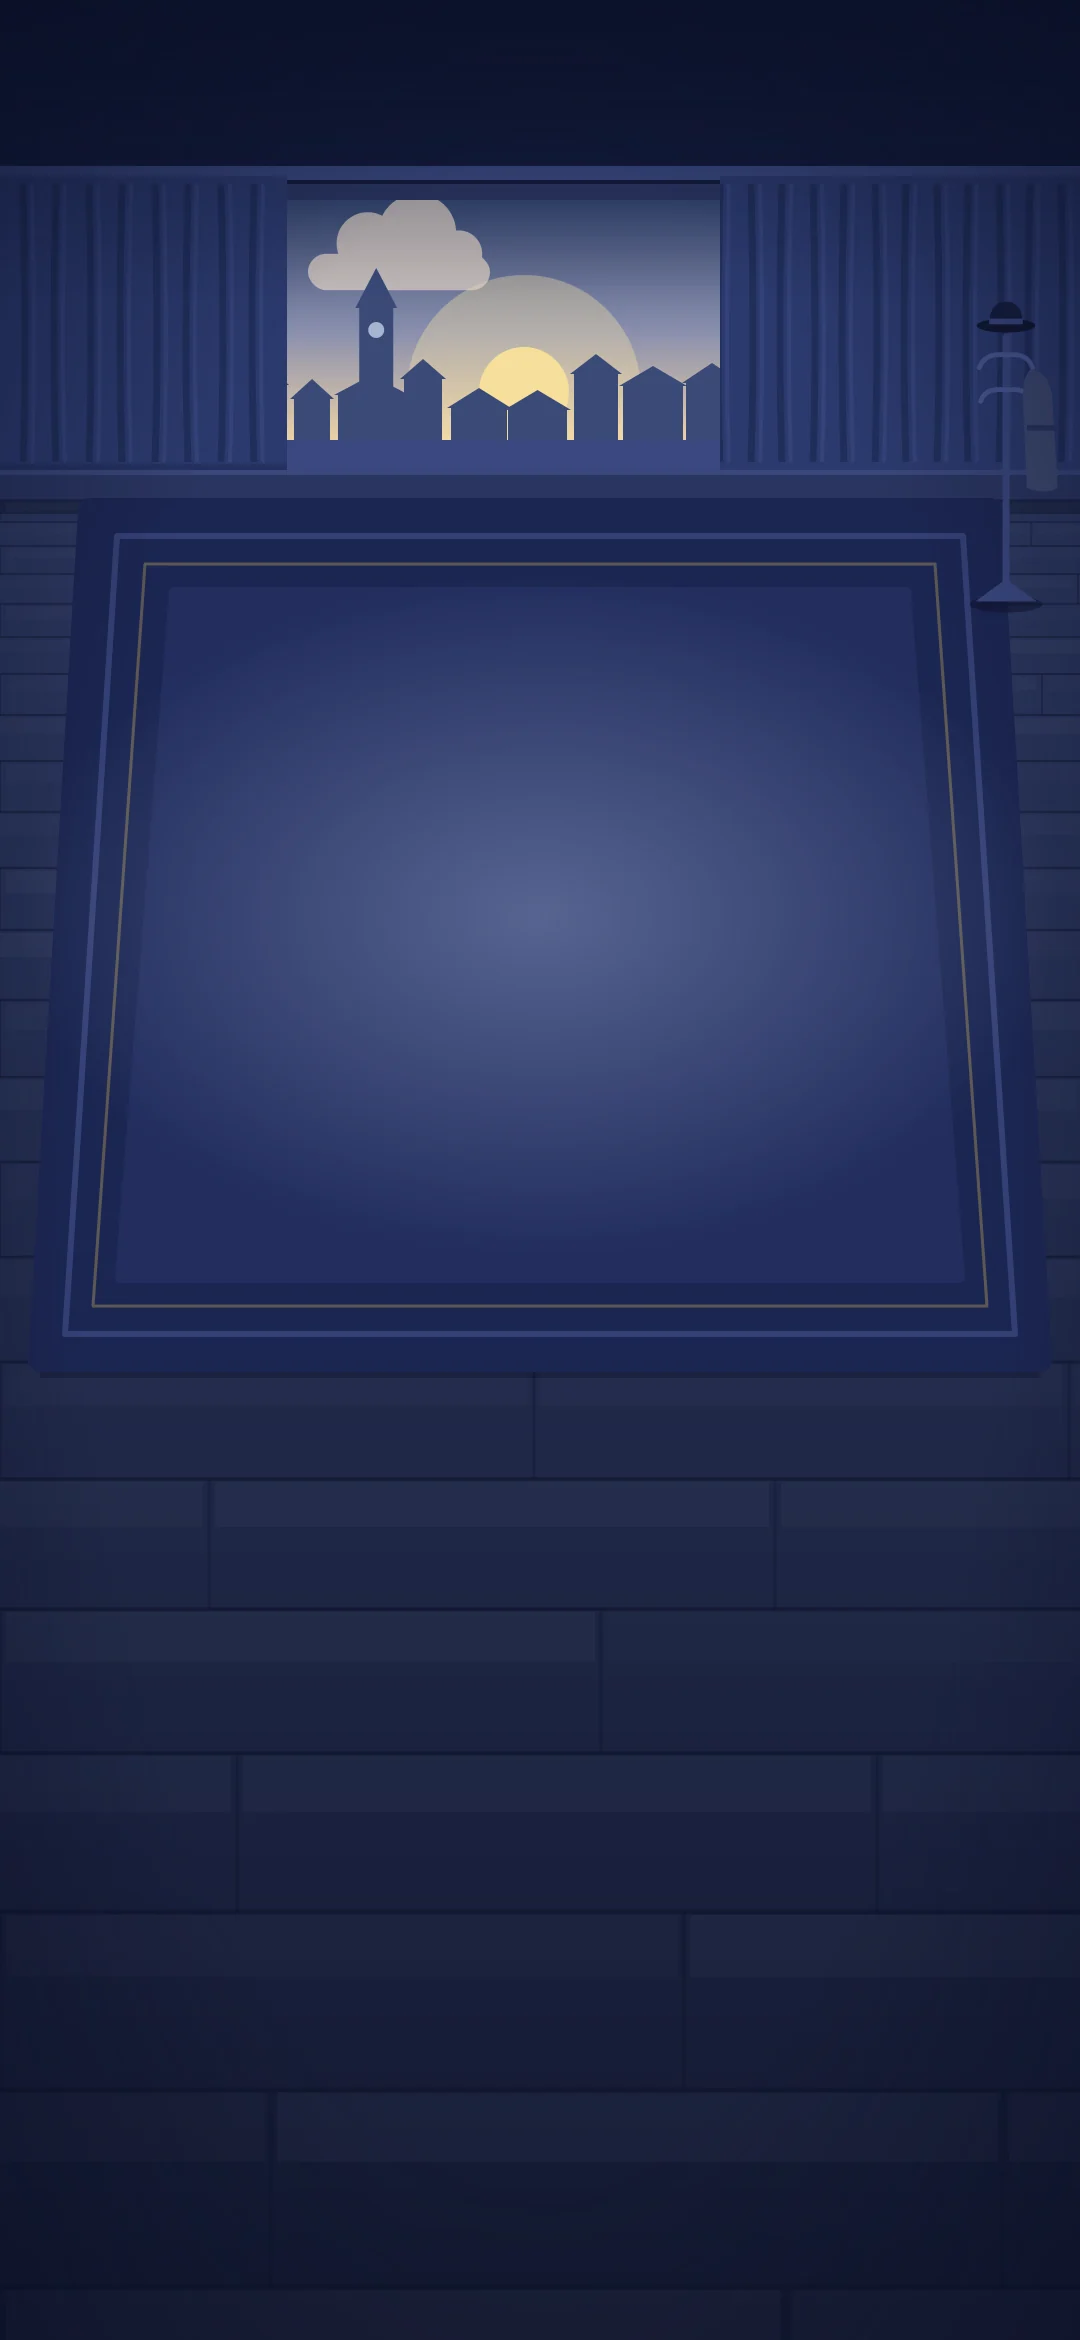
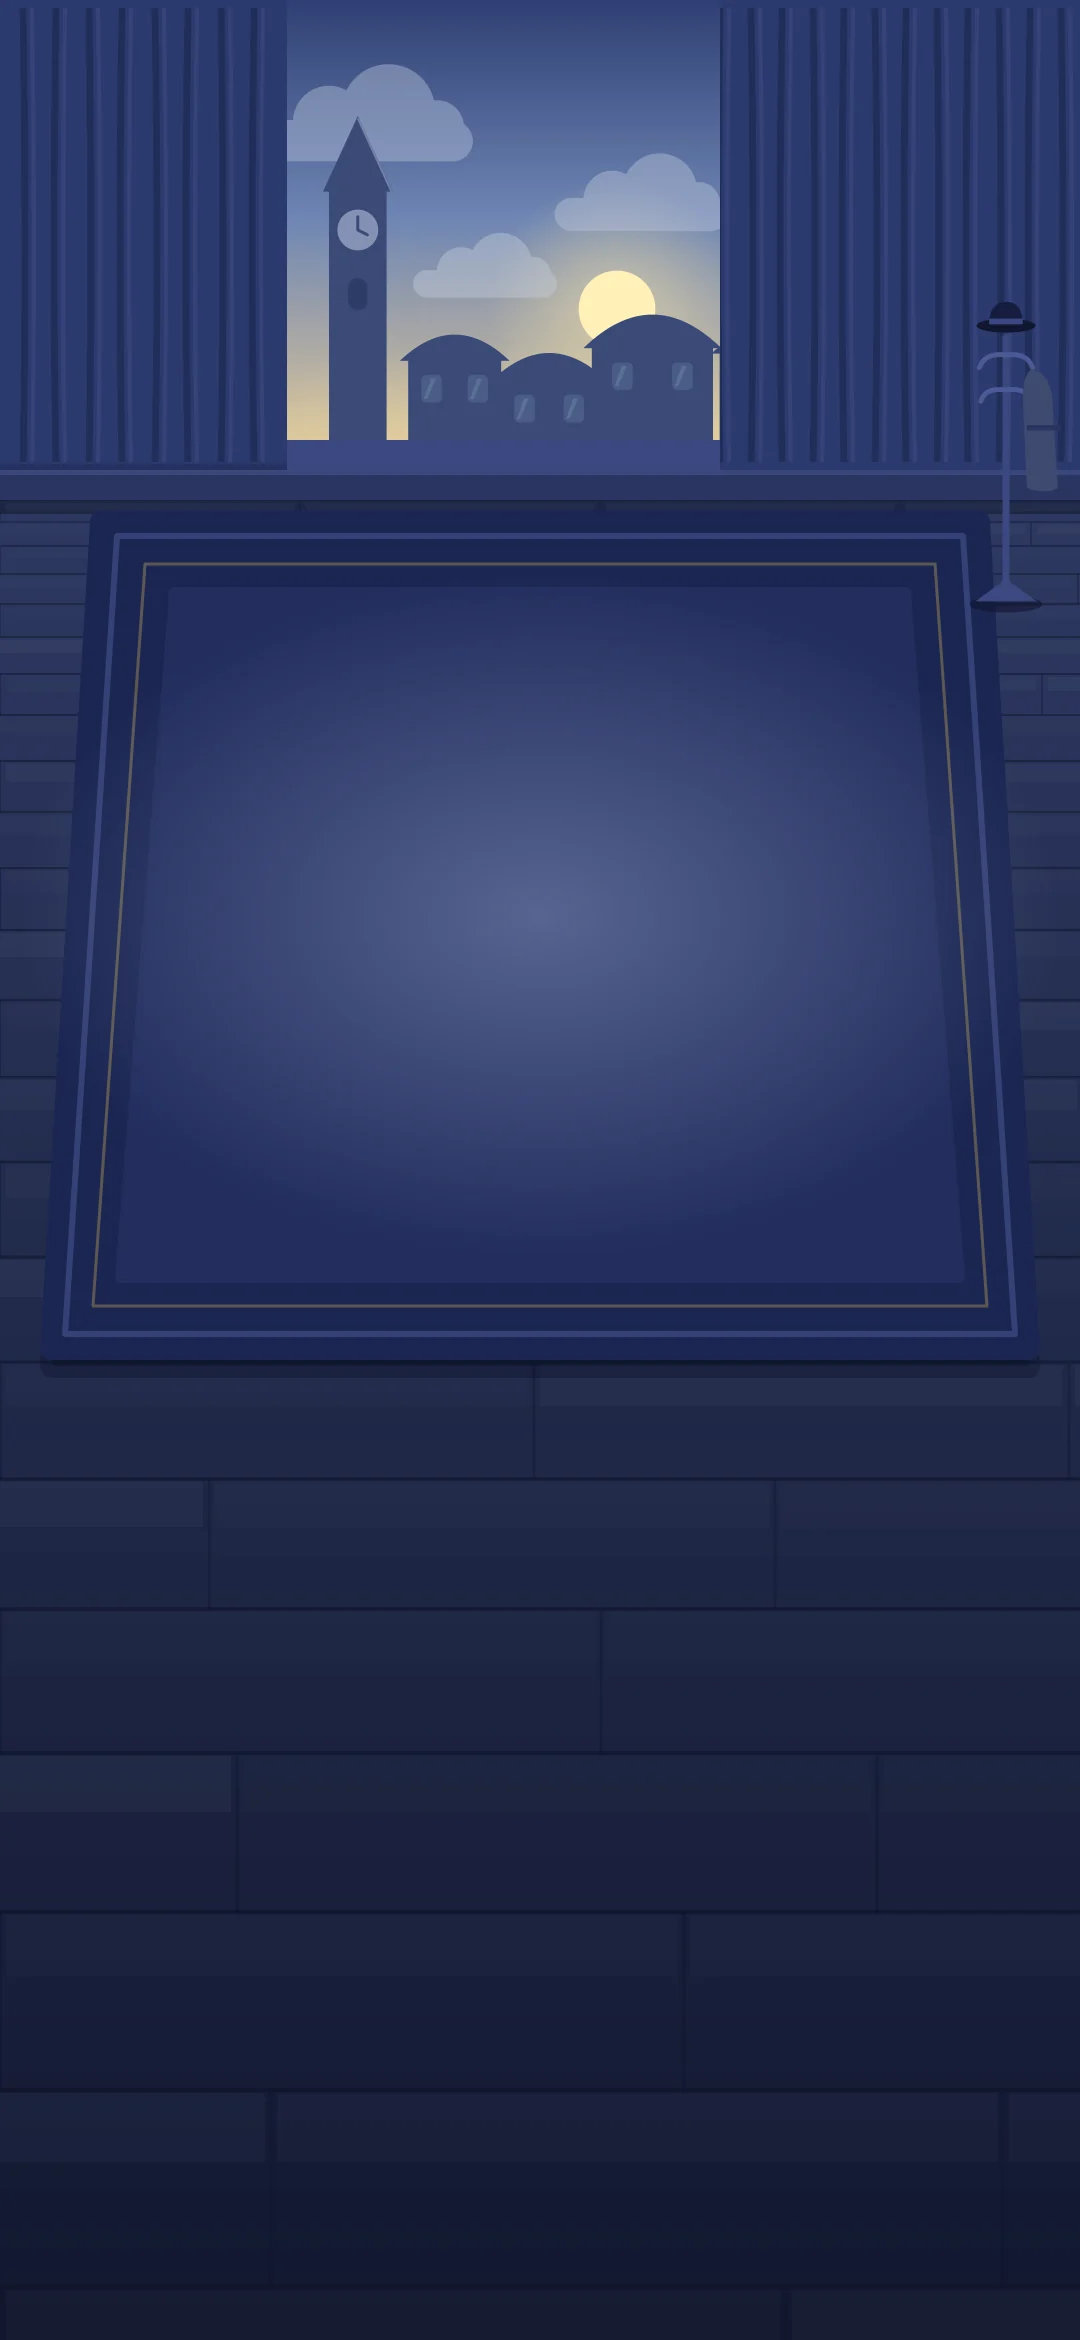
feat(bg): 실내 배경 V2 적용, 배경 명도 0.8 과 헤더 글씨 번짐으로 글씨 읽기 해결
Claude-Session: https://claude.ai/code/session_01FCTtG9gzLDiavkmfWVt6rc

Changed region(s): [[0.0, 0.0, 1.0, 0.1872]]

diff --git a/test/unit/backdropContrast.test.ts b/test/unit/backdropContrast.test.ts
@@ -36,6 +36,13 @@ const revealScrim = (() => {
   return { color: [Number(m[1]), Number(m[2]), Number(m[3])] as Rgb, alpha: Number(m[4]) };
 })();
 
+const dsCss = readFileSync(new URL("../../src/styles/ds.css", import.meta.url), "utf8");
+const phaseCss = readFileSync(new URL("../../src/styles/phase.css", import.meta.url), "utf8");
+/** 게임 구도 그림 전체 명도 배율(ds.css --mf-backdrop-dim) */
+const DIM = Number(/--mf-backdrop-dim:\s*([\d.]+)/.exec(dsCss)?.[1] ?? 1);
+/** 글씨 묶음 뒤 번짐 알파(phase.css, 남색 N%) */
+const HALO = Number(/\.mf-phasebar__text::before[^}]*night-900\) (\d+)%/.exec(phaseCss)?.[1] ?? 0) / 100;
+
 const WIDTHS = [360, 390, 430] as const;
 const GAME_SCENES = ["lobby", "night", "morning", "day", "dusk", "verdictDusk"] as const satisfies readonly SceneId[];
 const TOP_ROWS = 200;
@@ -63,7 +70,7 @@ function scrimAlpha(y: number): number {
   return 0;
 }
 
-type Overlay = "none" | "headerScrim" | "revealScrim";
+type Overlay = "none" | "headerScrim" | "revealScrim" | "textHalo";
 
 const rawCache = new Map<string, Promise<{ data: Buffer; width: number; channels: number }>>();
 function topRows(scene: SceneId, w: number) {
@@ -91,10 +98,11 @@ async function contrastOf(scene: SceneId, w: number, zone: Zone, overlay: Overla
   for (let y = Math.ceil(zone.y0 - 0.5); y + 0.5 <= zone.y1; y++) {
     for (let x = Math.ceil(zone.x0 - 0.5); x + 0.5 <= zone.x1; x++) {
       const i = (y * width + x) * channels;
-      let px: Rgb = [data[i]!, data[i + 1]!, data[i + 2]!];
+      let px: Rgb = [data[i]! * DIM, data[i + 1]! * DIM, data[i + 2]! * DIM];
       let a = 0;
       let c: Rgb = NIGHT_900;
       if (overlay === "headerScrim") a = scrimAlpha(y + 0.5);
+      else if (overlay === "textHalo") a = HALO;
       else if (overlay === "revealScrim") {
         a = revealScrim.alpha;
         c = revealScrim.color;
@@ -127,11 +135,11 @@ describe("장면 그림 6장 × 폰 폭 360·390·430 × 헤더 글씨 구역 p9
     for (const w of WIDTHS) {
       it(`${scene} @${w}: 제목${SCENES[scene].scrim ? "·타이머(헤더 막 합성)" : scene === "lobby" ? "·대기실 코드·타이머(역할 확인 막 합성)" : "·타이머"}`, async () => {
         const overlay: Overlay = SCENES[scene].scrim ? "headerScrim" : "none";
-        const title = await contrastOf(scene, w, titleZone(), overlay);
+        const title = await contrastOf(scene, w, titleZone(), SCENES[scene].scrim ? "headerScrim" : "textHalo");
         expect(title, `${scene}@${w} 제목 ${title.toFixed(2)}`).toBeGreaterThanOrEqual(HEADER_CONTRAST_MIN);
         if (scene === "lobby") {
           // 대기실 가운데 코드(막 없음), 역할 확인의 제목·타이머(--scrim 60% 막)
-          const code = await contrastOf(scene, w, codeZone(w), "none");
+          const code = await contrastOf(scene, w, codeZone(w), "textHalo");
           expect(code, `lobby@${w} 대기실 코드 ${code.toFixed(2)}`).toBeGreaterThanOrEqual(HEADER_CONTRAST_MIN);
           const revealTitle = await contrastOf(scene, w, titleZone(), "revealScrim");
           expect(revealTitle, `lobby@${w} 역할 확인 제목 ${revealTitle.toFixed(2)}`).toBeGreaterThanOrEqual(HEADER_CONTRAST_MIN);
@@ -147,10 +155,10 @@ describe("장면 그림 6장 × 폰 폭 360·390·430 × 헤더 글씨 구역 p9
 });
 
 describe("막이 필요하다는 사실을 고정한다", () => {
-  it("실내 배경(v4)은 막 없이도 모든 장면·폭에서 제목과 타이머가 4.5 이상이다 (막을 쓰지 않는다)", async () => {
+  it("실내 배경은 헤더 막 없이 밝기 배율과 글씨 뒤 번짐만으로 모든 장면·폭에서 제목과 타이머가 4.5 이상이다 (막을 쓰지 않는다)", async () => {
     for (const scene of GAME_SCENES) {
       for (const w of WIDTHS) {
-        const title = await contrastOf(scene, w, titleZone(), "none");
+        const title = await contrastOf(scene, w, titleZone(), "textHalo");
         const timer = await contrastOf(scene, w, timerZone(w), "none");
         expect(title, `${scene}@${w} 제목 ${title.toFixed(2)}`).toBeGreaterThanOrEqual(HEADER_CONTRAST_MIN);
         expect(timer, `${scene}@${w} 타이머 ${timer.toFixed(2)}`).toBeGreaterThanOrEqual(HEADER_CONTRAST_MIN);

diff --git a/src/styles/ds.css b/src/styles/ds.css
@@ -51,11 +51,13 @@
 
 /* Backdrop: 화면 뒤 배경 장면 */
 :where(.mf-backdrop) { width: 100%; height: 100%; }
-.mf-backdrop { position: relative; overflow: hidden; background: var(--night-900); isolation: isolate; }
+.mf-backdrop { --mf-backdrop-dim: 0.8; position: relative; overflow: hidden; background: var(--night-900); isolation: isolate; }
 .mf-backdrop__art { position: absolute; inset: 0; z-index: -1; pointer-events: none; background-size: cover; background-repeat: no-repeat; transition: opacity var(--dur-slow) var(--ease-out); }
 /* 장면이 바뀌면 층을 쌓는다: 새 층(entering)은 그림이 준비된 뒤 current 로 켜지고 이전 층(leaving)은 꺼진 뒤 걷힌다. 축소 모션은 base.css 전역 규칙이 처리한다. */
 .mf-backdrop__art[data-state="entering"], .mf-backdrop__art[data-state="leaving"] { opacity: 0; }
 .mf-backdrop__art[data-state="current"] { opacity: 1; }
+/* 실내 배경(V2): 헤더 글씨가 읽히도록 게임 구도 그림 전체 명도를 낮춘다(0.8 = 색 값을 0.8배, 채도·색상 그대로). 입구 구도는 그대로. */
+.mf-backdrop__art[data-layout="game"] { filter: brightness(var(--mf-backdrop-dim)); }
 /* 아침·낮(밝은 하늘): 헤더 위쪽 어두운 막. 값은 src/game/scenes.ts 의 HEADER_SCRIM_STOPS 가 인라인 --mf-scrim 으로 싣는다(층과 함께 전환). */
 .mf-backdrop__art[style*="--mf-scrim"]::after { content: ""; position: absolute; inset: 0 0 auto 0; height: 150px; background: var(--mf-scrim); pointer-events: none; }
 .mf-backdrop__content { position: relative; height: 100%; }

diff --git a/src/styles/phase.css b/src/styles/phase.css
@@ -80,3 +80,11 @@
 .mf-assign__ring:nth-child(3) { animation-delay: 0.66s; }
 @keyframes mf-assign-ring { from { transform: scale(0.6); opacity: 0.6; } to { transform: scale(1.6); opacity: 0; } }
 .mf-assign__core { position: relative; width: 72px; height: 72px; border-radius: 50%; display: flex; align-items: center; justify-content: center; background: var(--night-800); border: 1px solid var(--gray-700); color: var(--gray-50); }
+
+.mf-phasebar__text, .mf-lobby__bar-center { position: relative; isolation: isolate; }
+.mf-phasebar__text::before, .mf-lobby__bar-center::before { content: ""; position: absolute; z-index: -1; inset: -10px -22px -10px -18px; border-radius: 24px; pointer-events: none; background: rgba(14, 19, 38, 0.55); filter: blur(8px); }
+
+/* 헤더 글씨 묶음(제목·안내, 대기실 방 코드) 뒤의 약한 번짐: 밝은 하늘·달과 겹쳐도 글씨가 읽히게 한다(남색 45%, 결정 0033).
+   글씨 뒤의 별도 요소라 E2E H1(글씨를 투명하게 한 사진에서 배경 휘도를 잼)에 반영된다. text-shadow 는 반영되지 않는다. */
+.mf-phasebar__text, .mf-lobby__bar-center { position: relative; isolation: isolate; }
+.mf-phasebar__text::before, .mf-lobby__bar-center::before { content: ""; position: absolute; z-index: -1; inset: -10px -22px -10px -18px; border-radius: 24px; pointer-events: none; background: color-mix(in srgb, var(--night-900) 45%, transparent); filter: blur(8px); }

diff --git a/test/unit/scenes.test.ts b/test/unit/scenes.test.ts
@@ -187,6 +187,7 @@ describe("public/backgrounds (WebP 일곱 개, 옛 SVG 는 없다)", () => {
     expect(existsSync("design/backgrounds/v2/set1/bg_game_day.jpg")).toBe(true);
     expect(existsSync("design/backgrounds/v3/bg_game_night.png")).toBe(true);
     expect(existsSync("design/backgrounds/v4/bg_game_night.png")).toBe(true);
+    expect(existsSync("design/backgrounds/v5/bg_game_night.png")).toBe(true);
   });
 });
 
@@ -198,10 +199,10 @@ describe("scripts/make-backdrops.mjs (SOURCES)", () => {
     expect(SOURCES.map((s) => s.out).sort()).toEqual(EXPECTED_FILES);
   });
 
-  it("원본이 있다: 게임 구도는 design/backgrounds/v4(실내), 입구 구도는 v3", () => {
+  it("원본이 있다: 게임 구도는 design/backgrounds/v5(실내 V2), 입구 구도는 v3", () => {
     for (const s of SOURCES) {
       const isEntry = s.out.startsWith("bg_entry_");
-      expect(s.src.startsWith(isEntry ? "design/backgrounds/v3/" : "design/backgrounds/v4/"), s.src).toBe(true);
+      expect(s.src.startsWith(isEntry ? "design/backgrounds/v3/" : "design/backgrounds/v5/"), s.src).toBe(true);
       expect(existsSync(s.src), s.src).toBe(true);
     }
   });

diff --git a/src/net/assets.ts b/src/net/assets.ts
@@ -27,7 +27,7 @@ export type PreloadItem = { href: string; imageSrcSet?: string };
  * 배경·유령 그림 주소 끝에 붙이는 값. 파일 이름이 같아도 그림을 바꾼 배포가 바로 보이게 한다
  * (정적 그림 캐시가 max-age 1일이라 같은 주소는 하루 동안 옛 그림이 나온다). 그림을 바꾸면 값을 바꾼다.
  */
-export const ASSET_VERSION = "i1";
+export const ASSET_VERSION = "i2";
 
 // 파일 이름의 @ 는 URL 에서 %40 으로 쓴다. 유령 그림은 바꾼 적이 있어 버전 값을 붙인다.
 function png(dir: "table" | "roles" | "ghost", id: string, scale: 2 | 4): string {

diff --git a/src/components/Backdrop.tsx b/src/components/Backdrop.tsx
@@ -120,7 +120,7 @@ export function Backdrop(props: BackdropProps) {
           backgroundPosition: "center top",
         };
         if (SCENES[l.scene].scrim) style["--mf-scrim"] = headerScrimGradient();
-        return <div key={l.id} className="mf-backdrop__art" data-scene={l.scene} data-state={l.state} style={style} aria-hidden="true" />;
+        return <div key={l.id} className="mf-backdrop__art" data-layout={layout} data-scene={l.scene} data-state={l.state} style={style} aria-hidden="true" />;
       })}
       {children ? <div className="mf-backdrop__content">{children}</div> : null}
     </div>

diff --git a/test/client/backdrop.test.tsx b/test/client/backdrop.test.tsx
@@ -63,7 +63,7 @@ describe("Backdrop 층 규칙", () => {
     const { container } = render(<Backdrop layout="game" scene="morning" />);
     const art = container.querySelector<HTMLElement>(".mf-backdrop__art")!;
     expect(art.getAttribute("aria-hidden")).toBe("true");
-    expect(art.style.backgroundImage).toMatch(/^url\(["']?\/backgrounds\/bg_game_morning\.webp\?v=i1["']?\)$/);
+    expect(art.style.backgroundImage).toMatch(/^url\(["']?\/backgrounds\/bg_game_morning\.webp\?v=i2["']?\)$/);
     expect(art.style.backgroundPosition).toContain("top");
   });
 

diff --git a/HANDOFF.md b/HANDOFF.md
@@ -4,6 +4,7 @@
 
 ## 현재 상태
 
+- **실내 배경 V2 + 헤더 글씨 읽기(2026-10-26, 결정 0033) — 배포, 폰 확인 대기.** 배경 5장을 데스크톱 "실내 배경 레이어 V2"(`design/backgrounds/v5/`, 창 유리·커튼이 맨 위까지)로 교체, 입구 그림은 v3 그대로, WebP 합계 206.0KB. 그림은 더 고치지 않고 앱에서 해결: ① 게임 구도 배경 층 `filter: brightness(var(--mf-backdrop-dim))` 값 **0.8**(`src/styles/ds.css`, 0.85 는 H1 4.2:1 로 모자람) ② 헤더 글씨 묶음·대기실 방 코드 뒤 약한 번짐(남색 45%, `src/styles/phase.css`) ③ 헤더 막은 안 씀. `ASSET_VERSION` `i2`. **폰에서 볼 것**: 낮이 어두워 칙칙한지(→ `--mf-backdrop-dim` 만 조정, 낮만 따로도 가능), 대기실 달이 방 코드 번짐에 흐린지, 창이 좁아 해·달이 헤더와 겹치는지. 층 분리 에셋(투명 PNG 필요)과 큰 폰 세로 가운데는 나중. 시안: 캔버스 19차.
 - **실내 배경 v4 배포(2026-10-26, 결정 0032) — 배포 `2026-10-26T06:11:44Z+02bf68c`, 폰 확인 대기.** 야외 광장 대신 창·커튼·마루·사다리꼴 러그·코트걸이가 있는 실내(데스크톱 시안 "실내 시안 바닥 수정", `design/backgrounds/v4/`). 대기실과 밤은 같은 그림, 입구 그림은 v3 그대로. WebP 합계 208.4KB. 헤더 어두운 막은 전 장면에서 끔(위쪽이 어두운 벽, 헤더 글씨 대비 ≥ 11.7). **캐시 문제 해결**: 배경·유령 주소 끝에 `?v=${ASSET_VERSION}`(src/net/assets.ts, 지금 `i1`)을 붙임 — 그림을 바꾸면 값을 올릴 것(정적 그림 캐시 max-age 1일). 배포본 결과: smoke full 4·5·8명 통과, uat-night 5·8명 36/36, uat-test-bots 41/41, uat-test-room 27/27, 배포본 E2E 6흐름×3크기 중 준비 단계 S4 한 건(citizen4 390x664, 재실행 확인)뿐. 로컬 E2E도 같은 S4 흔들림 외 통과. **폰에서 볼 것**: 창이 작고 헤더에 가려짐(대기실에서 달이 방 코드·입장 알림 뒤), 낮·밤 느낌, 큰 폰 러그 아래 빈 공간. 거슬리면 해·달을 유리 아래쪽(이미지 y 380~430)으로 내린 그림 수정, 큰 화면은 층 분리 에셋(벽·마루·러그·조명). **다음 정리**: 영역 지도·가이드 이미지·에셋 자동 검사(그림이 화면 영역을 지키는지)를 `docs/` 에 만들고 gsd-addons 에 올릴지 정한다. `design/backgrounds/indoor-draft/`, `Claude outputs/` 는 내가 만든 것이 아니라 커밋하지 않았다.
 - **배경 v3·유령·방장 배지(2026-10-26, 결정 0031) — 배포 완료(`2026-10-26T04:39:27Z+9dfc8c8`), 폰 확인 대기.** 배포본 결과: smoke full 4·5(`--previous-version`)·8명 통과, uat-night 5·8명 36/36, uat-test-bots 41/41(이전 42), uat-test-room 27/27(이전 28) — 항목 수가 한 개씩 다른 이유 미확인, 배포본 E2E 6흐름×3크기 통과(첫 실행 준비 실패 S4 2건은 재실행 통과). **미해결 관찰**: police5 390x664 한 번의 실행에서 T1·D7 실패(밤의 장면 상자 top 119.2 ↔ 대기실 171.2, 높이 387.8 ↔ 335.8) — 재실행 4회는 모두 통과, 대기실에 52px 더 얹힌 것(입장 토스트일 가능성)이 측정 시점에 걸린 것으로 보이나 확인 못 함. 또 나면 대기실 측정 시점의 토스트·레이아웃을 본다. ① 배경: 데스크톱 v3(`design/backgrounds/v3/`, 지평선 18%, 사람이 하늘에 뜨던 문제 해결) → WebP 합계 231.9KB(품질 86) ② 밤 조명 3장(대기실·밤·처형 해질녘)은 조명 중심 (540, 915) 로 다시 받음 ③ 헤더 막 .80/.70/.55/0 + 해질녘·처형에도 막(360폭 타이머 4.42) ④ 새 유령(그림자 제거·발 y=374 정렬) ⑤ 방장 배지 `host_badge.svg` ⑥ D3b-5(5명판 98%) 유지. **정정**: 인자 없는 `npm run e2e` 는 배포본을 검사한다 — 로컬은 `npm run dev` 후 `npm run e2e -- --url http://localhost:5173`. 로컬 결과: 6흐름×3크기 통과, vitest 1895, E2E 단위 107. 남은 일: 폰 확인(후광·낮 느낌·낮밤 색 차이).
 - **시각 개선 묶음(quick 261025-unr, 2026-10-25~26) — 근거 결정 0030.** 코드·테스트·E2E 규칙·결정·UI-SPEC 완료. 배포·push 완료, 실기기 확인 대기. **배포 버전 `2026-10-26T01:57:25Z+e717ac0`**(직전 `2026-10-25T11:40:42Z+d2af5a9`), 개인 Cloudflare 계정(`npx wrangler whoami` = dhkim1522@naver.com, `wrangler.jsonc` name = minifia)으로 Worker `minifia` 만 배포했다.

diff --git a/docs/decisions/0033-indoor-v2-dim-halo.md b/docs/decisions/0033-indoor-v2-dim-halo.md
@@ -1,0 +1,26 @@
+# 0033. 실내 배경 V2와 헤더 글씨 읽기(명도 0.8 + 약한 번짐)
+
+- 날짜: 2026-10-26
+- 상태: 배포, 폰 확인 대기
+- 이전: 0032(실내 배경 v4)
+
+## 결정
+
+1. 게임 구도 배경을 데스크톱의 "실내 배경 레이어 V2" 완성 모습 5장(`design/backgrounds/v5/`)으로 바꾼다. 창 유리와 커튼이 맨 위까지 이어지고, 해·달·구름이 장면마다 다르다. 입구 그림은 v3 그대로. WebP 합계 206.0KB.
+2. 그림을 더 고치지 않고 **화면 쪽에서 글씨를 읽히게 한다**(사용자 결정: 그림 위치·내용을 계속 바꾸기보다 UI 에서 해결).
+   - 게임 구도 배경 층에 `filter: brightness(var(--mf-backdrop-dim))`, 값 **0.8**(색 값 0.8배, 채도·색상 그대로). 0.85 는 H1 4.2:1 로 모자랐고 0.8 에서 전부 통과.
+   - 헤더 글씨 묶음(제목·안내, 대기실 방 코드) 뒤에 약한 번짐(남색 45%, 흐림 8px). 글씨 뒤의 별도 요소라 E2E H1 에 반영된다(text-shadow 는 반영되지 않음).
+   - 헤더 어두운 막은 쓰지 않는다(`SCENES.scrim` 전부 false).
+3. 배경 그림 주소 버전 값 `ASSET_VERSION` 을 `i2` 로 올렸다(0032-4).
+4. 오프라인 대비 테스트(`backdropContrast.test.ts`)는 밝기 배율과 번짐 알파를 CSS 에서 읽어 합성한다.
+
+## 비교한 시안
+
+캔버스 "19차"(기준·약·중·강). 약은 대기실 3.3·낮 시작 3.2 로 4.5 에 못 미쳤다. 약 + 밝기 0.8 로 4개 화면 전부 통과.
+
+## 알려진 한계
+
+- 낮이 0.8배로 어두워져 칙칙해 보일 수 있다 → 폰에서 보고 `--mf-backdrop-dim` 만 바꾼다(낮만 따로 올리는 것도 가능).
+- 대기실에서 달이 방 코드 번짐에 조금 흐려진다.
+- 창이 커튼 사이 좁은 틈이라 해·달이 헤더와 일부 겹친다.
+- 층 분리 에셋은 투명 PNG 가 아니라(체크무늬가 박힌 미리보기) 아직 쓰지 못한다.

diff --git a/design/backgrounds/v5/README.md b/design/backgrounds/v5/README.md
@@ -1,0 +1,7 @@
+# 배경 v5 — 실내 V2 (2026-10-26, 결정 0033)
+
+데스크톱 "실내 배경 레이어 V2"(에셋 아티팩트 https://claude.ai/artifact/4dYpe74vxJHSnA4WhFSLTM, 보드 `RoomLayersV2`)의 완성 모습 5장 사본이다.
+- 창 유리와 커튼이 맨 위(y=0)까지 이어지고, 해·달·구름이 장면별로 다르다. 아침은 위가 어두운 동틀녘 하늘.
+- 마루·러그·코트걸이·조명은 v4 와 같은 위치. 투표·처형은 위가 좁은 원뿔 스포트라이트(타원 중심 (540, 915)).
+- 이 폴더는 완성 모습 5장만 둔다. 레이어 10종은 투명 PNG 가 아니라 체크무늬가 박힌 미리보기라서 쓰지 않는다.
+- 앱은 배경 층에 `filter: brightness(0.85)` 를 걸고(`--mf-backdrop-dim`), 헤더 글씨 묶음 뒤에 약한 번짐(남색 45%)을 깐다. 그림 자체의 명도 조정은 폰에서 보고 정한다.
